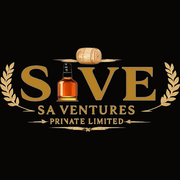
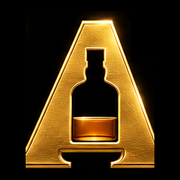
Add files via upload

diff --git a/index.html b/index.html
@@ -27,7 +27,7 @@
   "@type": "Organization",
   "name": "SA Ventures Private Limited",
   "url": "https://saventures.net/",
-  "logo": "https://saventures.net/logo.png",
+  "logo": "https://saventures.net/logo-gold.jpg",
   "email": "saventures.co@gmail.com",
   "telephone": "+91-96778-82776",
   "foundingDate": "2025-12-19",
@@ -76,6 +76,8 @@ a{color:#e2c07a}a:hover{color:#f6dfa8}
 .thumb[aria-pressed="true"] .frame{border-color:#e2c07a}
 .thumb[aria-pressed="false"]{opacity:.55}
 .thumb span.n{font-family:'Cormorant Garamond',serif;font-size:18px;line-height:1.2;color:#efe6d6}
+.logo{mix-blend-mode:lighten;object-fit:contain}
+.logo-head{height:101px;width:200px}
 .dchip{display:flex;flex-direction:column;align-items:flex-start;gap:6px;padding:22px 22px 20px;border:0;background:#0e0c09;cursor:pointer;text-align:left;font-family:inherit}
 .dchip .c{font-family:'Cormorant Garamond',serif;font-size:46px;line-height:1;color:#e2c07a}
 .dchip .l{font-family:Cinzel,serif;font-size:12px;letter-spacing:.18em;color:#b3a892}
@@ -95,6 +97,10 @@ a{color:#e2c07a}a:hover{color:#f6dfa8}
 @media (max-width:760px){
   .wrap{padding-left:22px;padding-right:22px}
   .hide-sm{display:none!important}
+  .logo-head{height:64px;width:127px}
+  header.wrap{flex-wrap:nowrap!important;gap:10px!important}
+  header nav{gap:10px!important}
+  header nav a[href="#partner"]{padding:0 14px!important;letter-spacing:.14em!important}
   .arch{max-width:none}
   .spot-notes{grid-template-columns:1fr!important}
   #thumbs{grid-template-columns:repeat(4,minmax(0,1fr))!important;gap:10px!important}
@@ -107,7 +113,7 @@ a{color:#e2c07a}a:hover{color:#f6dfa8}
 
 <div id="gate" role="dialog" aria-modal="true" aria-labelledby="gate-title">
   <div class="box"><div class="in">
-    <img src="/logo.png" alt="SA Ventures Private Limited" width="150" height="100" style="height:100px;width:150px;object-fit:contain">
+    <img src="/logo-gold.jpg" alt="SA Ventures Private Limited" width="278" height="140" class="logo" style="height:140px;width:278px">
     <h2 id="gate-title" class="serif" style="margin:20px 0 0;font-weight:400;font-size:40px;line-height:1.1;color:#f6efe2">Are you of legal drinking age?</h2>
     <p class="muted" style="margin:16px 0 0;font-size:15px">This website is for trade enquiries about alcoholic beverages. You must be of legal drinking age in your state to enter (21+ in Tamil Nadu, 23+ in Kerala).</p>
     <div id="gate-actions" style="margin-top:32px;display:flex;flex-wrap:wrap;justify-content:center;gap:14px">
@@ -126,7 +132,7 @@ a{color:#e2c07a}a:hover{color:#f6dfa8}
     <a href="#collection" style="color:#efe6d6;text-decoration:none">COLLECTION</a>
     <a href="#reach" style="color:#efe6d6;text-decoration:none">REACH</a>
   </nav>
-  <a href="#top"><img src="/logo.png" alt="SA Ventures Private Limited" width="114" height="76" style="display:block;height:76px;width:114px;object-fit:contain"></a>
+  <a href="#top"><img src="/logo-gold.jpg" alt="SA Ventures Private Limited" width="200" height="101" class="logo logo-head" style="display:block"></a>
   <nav class="caps" style="display:flex;gap:36px;align-items:center;font-size:13px;letter-spacing:.22em">
     <a href="#find" class="hide-sm" style="color:#efe6d6;text-decoration:none">FIND US</a>
     <a href="https://www.instagram.com/1moremachi/" target="_blank" rel="noopener" aria-label="SA Ventures on Instagram (@1moremachi)" class="ig" style="display:inline-flex;align-items:center;justify-content:center;width:44px;height:44px;color:#e2c07a"><svg width="20" height="20" viewBox="0 0 24 24" fill="none" stroke="currentColor" stroke-width="1.6" aria-hidden="true"><rect x="3" y="3" width="18" height="18" rx="5"/><circle cx="12" cy="12" r="4.2"/><circle cx="17.3" cy="6.7" r="1" fill="currentColor" stroke="none"/></svg></a>
@@ -242,7 +248,7 @@ a{color:#e2c07a}a:hover{color:#f6dfa8}
 <footer style="border-top:1px solid rgba(201,161,90,.25);background:#0b0907">
   <div class="wrap" style="padding-top:56px;padding-bottom:44px;display:flex;flex-direction:column;gap:22px">
     <div style="display:flex;flex-wrap:wrap;justify-content:space-between;align-items:center;gap:20px">
-      <img src="/logo.png" alt="SA Ventures Private Limited" width="90" height="60" style="display:block;height:60px;width:90px;object-fit:contain">
+      <img src="/logo-gold.jpg" alt="SA Ventures Private Limited" width="170" height="86" class="logo" style="display:block;height:86px;width:170px">
       <div style="display:flex;flex-wrap:wrap;align-items:center;gap:24px">
         <a href="https://www.instagram.com/1moremachi/" target="_blank" rel="noopener" style="display:inline-flex;align-items:center;gap:10px;min-height:44px;color:#e2c07a;font-family:Cinzel,serif;font-size:12px;letter-spacing:.2em;text-decoration:none"><svg width="20" height="20" viewBox="0 0 24 24" fill="none" stroke="currentColor" stroke-width="1.6" aria-hidden="true"><rect x="3" y="3" width="18" height="18" rx="5"/><circle cx="12" cy="12" r="4.2"/><circle cx="17.3" cy="6.7" r="1" fill="currentColor" stroke="none"/></svg>@1MOREMACHI</a>
         <div class="caps" style="font-size:12px;letter-spacing:.26em;color:#b3a892">TRADE ENQUIRIES ONLY · 21+ · DRINK RESPONSIBLY</div>
